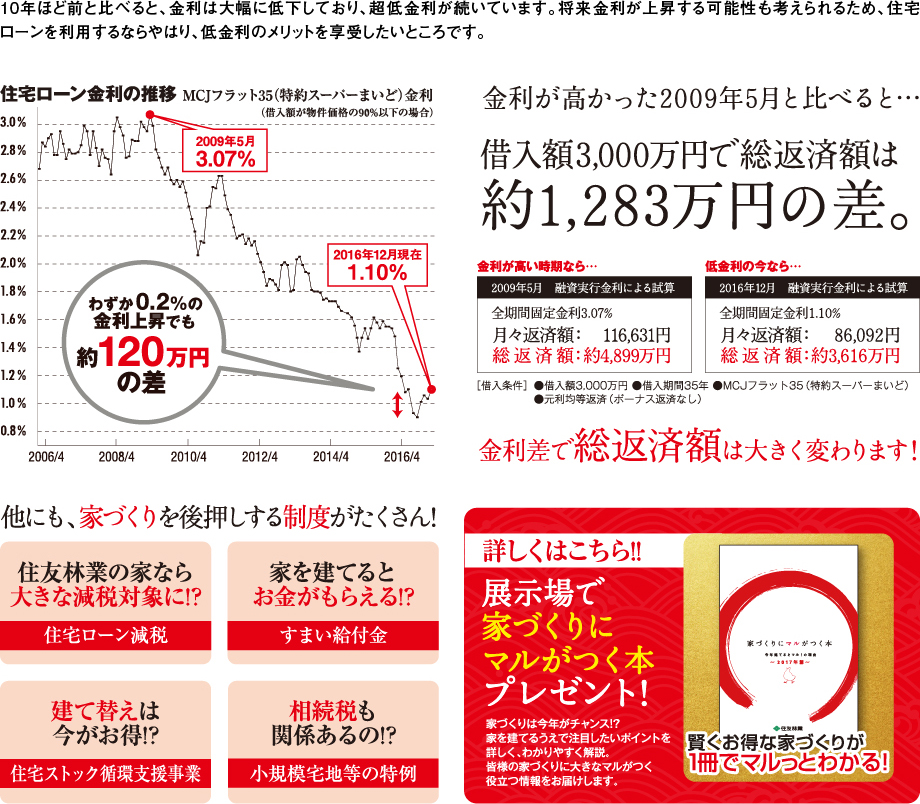
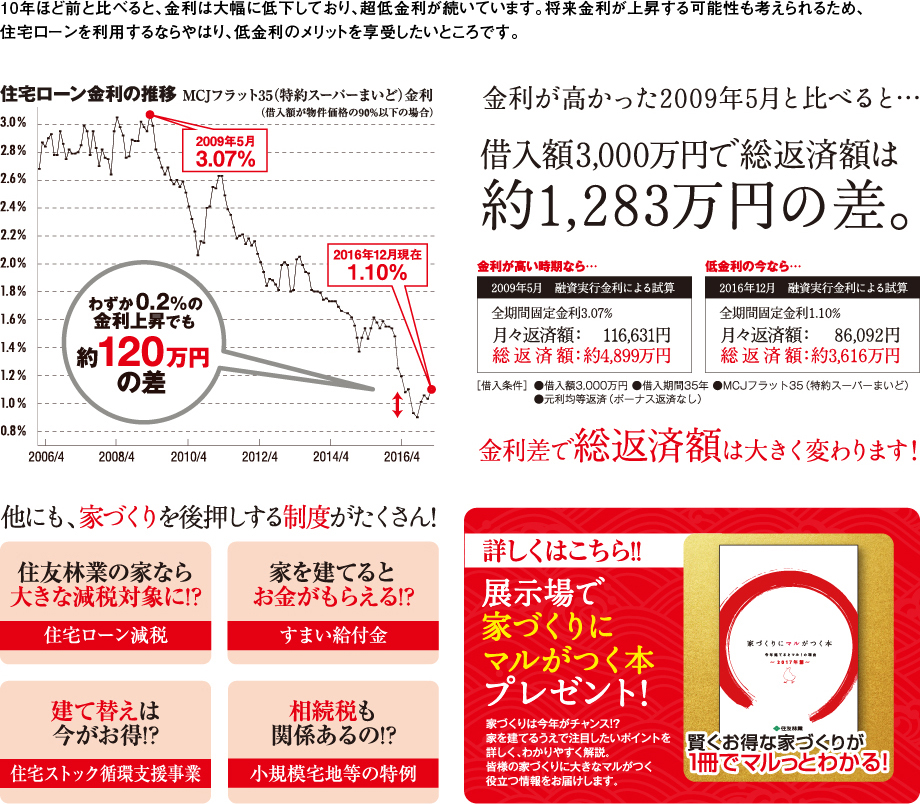
edit

Changed region(s): [[0.0, 0.0, 1.0, 0.0622]]

diff --git a/docs/sp/20170109.html b/docs/sp/20170109.html
@@ -165,7 +165,7 @@
             <img src="images/point2.jpg"  aria-controls="collapsePoint2" aria-expanded="false" class="pointer collapsed" data-target="#collapsePoint2" data-toggle="collapse" type="button" alt="POINT 2 「夢をカタチにするための資金計画」 資金の全体像を把握する CHECK!↓">
 
             <div class="collapse" id="collapsePoint2" aria-expanded="false">
-                <p class="description">家を建てるのに、"いったいどれくらいお金が掛かるのだろう"と気になりませんか？展示場ではご希望の計画から概算の費用を知ることができます。将来のことも考えた総合的な資産計画をお伝えします。</p>
+                <p class="description">家を建てるのに、"いったいどれくらいお金が掛かるのだろう"と気になりませんか？展示場ではご希望の計画から概算の費用を知ることができます。将来のことも考えた総合的な資金計画をお伝えします。</p>
                 <img src="images/point2_accordion.jpg" alt=" [建物工事費]建物本体そのものの費用と、それに関係する費用のことです。 [付帯工事費]建物本体以外の暮らしに必要なライフラインや、快適な暮らしを実現するための設備に関する費用です。 [土地取得費]新たに土地を土地を取得して家を建築する場合に必要な費用です。 [諸経費]住宅ローンを借りる場合の手続き費用や手数料、さらに税金や保険金など、こちらも必要な費用です。">
             </div>
         </div>
@@ -183,7 +183,7 @@
             <img src="images/plusalpha.jpg"  aria-controls="collapsePlusalpha" aria-expanded="false" class="pointer collapsed" data-target="#collapsePlusalpha" data-toggle="collapse" type="button" alt="プラスα 「住宅ローンはいま、超低金利!」 賢くお得な家づくりを知る CHECK!↓">
 
             <div class="collapse" id="collapsePlusalpha" aria-expanded="false">
-                <p class="description">10年ほど前と比べると、金利は大幅に低下しており、超低金利が続いています。将来金利が上昇する可能性も考えられるため。住宅ローンを利用するならやはり、低金利のメリットを享受したいところです。</p>
+                <p class="description">10年ほど前と比べると、金利は大幅に低下しており、超低金利が続いています。将来金利が上昇する可能性も考えられるため、住宅ローンを利用するならやはり、低金利のメリットを享受したいところです。</p>
                 <img src="images/plusalpha_accordion.jpg" alt="金利が高かった2019年5月と比べると… 借入額3,000万円で総返済額は約1,283万円の差。金利差で総返済額は大きく変わります！ 他にも、家づくりを後押しする制度がたくさん! 住友林業の家なら大きな減税対策に!? 住宅ローン減税 家を建てるとお金がもらえる!? すまい給付金 建て替えは今がお得!? 住宅ストック循環支援事業 相続税も関係あるの!? 小規模住宅地等の特例 詳しくはこちら!! 展示場で家づくりにマルがつく本プレゼント! 賢くお得な家づくりが1冊でマルっとわかる!">
             </div>
         </div>
